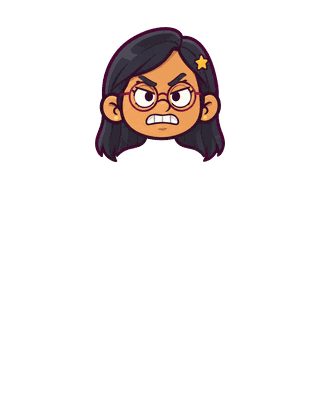
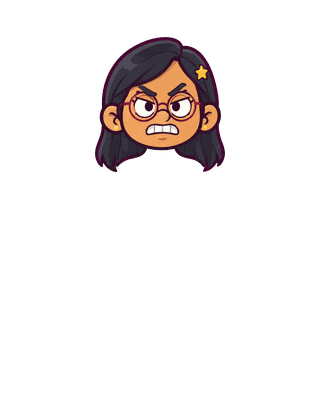
Dassi neck fixed in the rig (book arm and torso rebuilt)

Changed region(s): [[0.2812, 0.06, 0.7188, 0.45]]

diff --git a/assets/production/slice_cast_art.py b/assets/production/slice_cast_art.py
@@ -16,7 +16,7 @@ import sys
 from pathlib import Path
 
 import numpy as np
-from PIL import Image
+from PIL import Image, ImageDraw
 from scipy import ndimage
 
 ROOT = Path(__file__).resolve().parents[2]
@@ -132,8 +132,19 @@ def build(art: str) -> None:
     arm_l = (xx >= px(spec["arm_l"][0] - 45)) & (xx < px(spec["arm_l"][2])) & (yy >= px(spec["arm_l"][1])) & (yy < px(spec["arm_l"][3]))
     arm_r = (xx >= px(spec["arm_r"][0])) & (xx < px(spec["arm_r"][2] + 45)) & (yy >= px(spec["arm_r"][1])) & (yy < px(spec["arm_r"][3]))
     arm_r &= ~arm_l
+    book_cut = arm_r.copy() if art == "dassi" else None
+    if art == "dassi":
+        # Follow the notebook and forearm instead of taking a vertical shirt
+        # strip along with the arm. The shirt remains on the stationary torso.
+        book = Image.new("L", (width, height), 0)
+        ImageDraw.Draw(book).polygon([(round(px(x)), round(px(y))) for x, y in
+            [(1020, 800), (1375, 800), (1375, 1140),
+             (975, 1140), (975, 940), (1020, 940)]], fill=255)
+        arm_r &= np.asarray(book) > 0
     legs = (yy >= px(spec["hip_y"])) & ~arm_l & ~arm_r & (np.abs(xx - px(spec["leg_x"])) < px(spec.get("leg_half", 310)))
     below_neck = (yy >= px(spec["neck_y"])) & ~arm_l & ~arm_r & ~legs
+    if book_cut is not None:
+        below_neck &= ~book_cut
     regions = {
         "leg_left": legs & (xx < px(spec["leg_x"])),
         "leg_right": legs & (xx >= px(spec["leg_x"])),
@@ -152,12 +163,44 @@ def build(art: str) -> None:
         paste(canvas, small, ox, oy)
         return canvas
 
+    def dassi_torso() -> Image.Image:
+        # A rectangular book-arm crop also takes the shirt beneath it. Rebuild
+        # that hidden shirt from the intact left side before layering the book.
+        layer = part_image(below_neck)
+        def point(x: float, y: float) -> tuple:
+            return (round(ox + px(x) * scale), round(oy + px(y) * scale))
+        full = Image.new("RGBA", CANVAS, (0, 0, 0, 0))
+        paste(full, resize_premultiplied(master, scale), ox, oy)
+        x0, y0 = point(945, 800)
+        x1, y1 = point(1270, 1160)
+        sx0, _ = point(900, 800)
+        sx1 = sx0 + 1
+        patch = full.crop((sx0, y0, sx1, y1)).resize((x1-x0, y1-y0), Image.Resampling.NEAREST)
+        # Keep the torso silhouette below the shoulder; the real sleeve is
+        # retained on the book arm, and the notebook covers this underpainting.
+        mask = Image.new("L", patch.size, 0)
+        ImageDraw.Draw(mask).polygon([(0, 0), (patch.width-14, 0),
+            (patch.width, 18), (patch.width-10, patch.height), (0, patch.height)], fill=255)
+        patch.putalpha(mask)
+        layer.alpha_composite(patch, (x0, y0))
+        # The expression-sheet chin sits above the master's chin. A neck bridge
+        # must extend behind it, including during the authored head tilts.
+        draw = ImageDraw.Draw(layer)
+        nx0, ny0 = point(915, 625)
+        nx1, ny1 = point(1070, 750)
+        colour = tuple(int(v) for v in master[round(px(740)), round(px(1000)), :3]) + (255,)
+        draw.rounded_rectangle((nx0, ny0, nx1, ny1), radius=5, fill=(47, 20, 43, 255))
+        draw.rounded_rectangle((nx0+3, ny0+2, nx1-3, ny1-4), radius=4, fill=colour)
+        return layer
+
     target = OUT / art
     target.mkdir(parents=True, exist_ok=True)
     for old in target.glob("*"):
-        old.unlink()
+        if old.suffix in {".png", ".svg", ".json"}:
+            old.unlink()
     for name, mask in regions.items():
-        save_png(part_image(mask), target / f"{name}.png")
+        image = dassi_torso() if art == "dassi" and name == "body" else part_image(mask)
+        save_png(image, target / f"{name}.png")
 
     # Heads from the faces sheet, aligned to the master's head box (chin and centre).
     comps = head_components(sheet)
@@ -173,6 +216,9 @@ def build(art: str) -> None:
     # the neutral head's does: the hair never jumps when the expression changes.
     target_cx = ox + centre_x * scale
     target_top = oy + head_top * scale
+    if art == "dassi":
+        # Match the face-sheet chin to the collar, not the shorter hair crop.
+        target_top += 10
     for name, (box, mask) in zip(FACES, comps):
         layer = sheet.copy()
         layer[..., 3] = np.where(mask, layer[..., 3], 0)
@@ -191,6 +237,8 @@ def build(art: str) -> None:
     hip_l = canvas_point((spec["leg_x"] - 130, spec["hip_y"]))
     hip_r = canvas_point((spec["leg_x"] + 130, spec["hip_y"]))
     neck = canvas_point((spec["head_box"][0] * 0.5 + spec["head_box"][2] * 0.5, spec["head_box"][3] - 25))
+    if art == "dassi":
+        neck[1] += 10
     body_pivot = canvas_point((spec["head_box"][0] * 0.5 + spec["head_box"][2] * 0.5, (spec["neck_y"] + spec["hip_y"]) * 0.5))
     parts = [
         {"name": "leg_left", "texture": f"res://assets/characters/{art}/leg_left.png", "pivot": hip_l, "z": -3},
